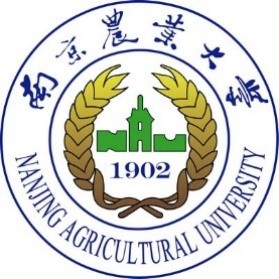
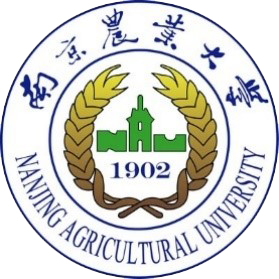
#

diff --git a/content/authors/admin/_index.md b/content/authors/admin/_index.md
@@ -93,7 +93,7 @@ Frankly, I am a video game aficionado. The most impressive one I've ever played 
  - Computational Fluid Dynamics
  - Image and Geometry Processing
 
-<img style="float:right" src="/img/NJAU.jpg" width = "150" height = "150" />
+<img style="float:right" src="/img/NJAU.png" width = "150" height = "150" />
 **Nanjing Agriculture University**  **(Sep 2014 - Jun 2018)**
 
 - <span style="color:#34495e;">**BSc in Information and Computing Science**</span>
@@ -106,6 +106,6 @@ Frankly, I am a video game aficionado. The most impressive one I've ever played 
 ### Personal interests
 - **:video_game::** <span style="font-size: 28px; color: #3350b7;"><i class="fab fa-playstation"></i></span><a href="files/playstation_id.pdf" target="_blank">ID: zacloudevil</a> <span style="font-size: 28px; color: red;"><i class="fab fa-nintendo-switch"></i></span> <span style="font-size: 28px; color: black;"><i class="fab fa-steam"></i></span>
 - **Writing:** <a href="https://www.zhihu.com/people/shi-zheng-yuan-54-22/activities" target="_blank"><span style="font-size: 28px; color: #2962ff ;"><i class="fab fa-zhihu fa-lg"></i></span></a>
-- **Calligraphy:** GRADE <span style="color:red;">TEN</span>**(highest)**. Please refer to [<a href="img/HW1.jpg" target="_blank"><span style="color: #ff219e;">**certificate**</span></a>], [<a href="img/HW2.jpg" target="_blank">**work**</a>]
-- **Traditinal Chinese painting:** GRADE <span style="color:red;">TEN</span>**(highest)**. Please refer to [<a href="img/TCP1.jpg" target="_blank"><span style="color: #ff219e;">**certificate**</span></a>], [<a href="img/TCP2.jpg" target="_blank">**work**</a>]
+- **Calligraphy:** GRADE <span style="color:red;">TEN</span>(highest). Please refer to [<a href="img/HW1.jpg" target="_blank"><span style="color: #ff219e;">certificate</span></a>], [<a href="img/HW2.jpg" target="_blank">work</a>]
+- **Traditinal Chinese painting:** GRADE <span style="color:red;">TEN</span>(highest). Please refer to [<a href="img/TCP1.jpg" target="_blank"><span style="color: #ff219e;">certificate</span></a>], [<a href="img/TCP2.jpg" target="_blank">work</a>]
 - **:guitar::** Just so so, only can play Jay Chou's 'Qing Tian'. :speak_no_evil:
